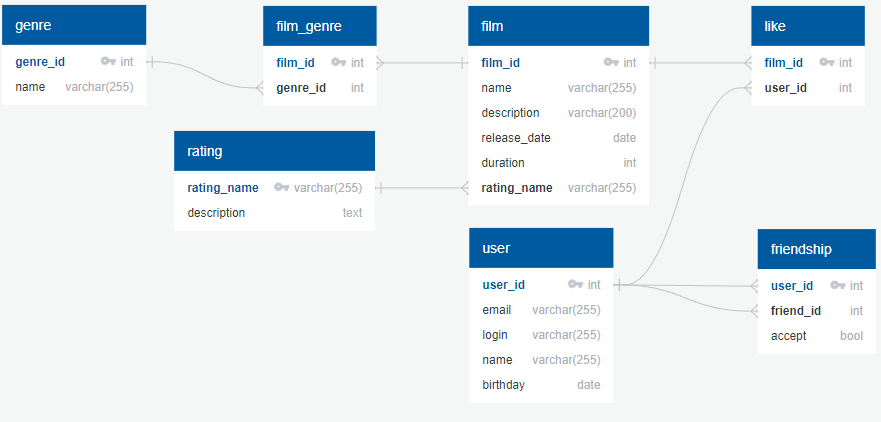
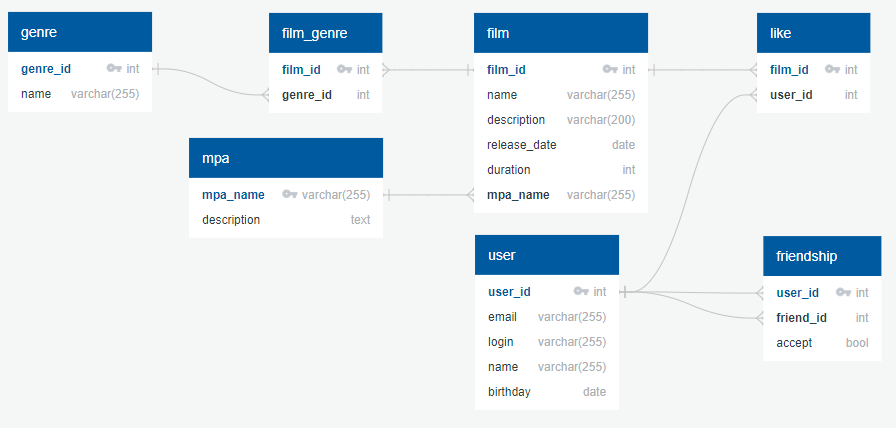
Внес правки в модель (изменил rating на mpa (Motion Picture Association, сокращённо МРА))

diff --git a/README.md b/README.md
@@ -14,9 +14,9 @@ f.name,
 f.description,  
 f.release_date,  
 f.duration,  
-r.rating_name  
+r.mpa_name  
 FROM film AS f  
-INNER JOIN rating AS r ON f.rating_name = r.rating_name;
+INNER JOIN mpa AS r ON f.mpa_name = r.mpa_name;
 
 ###Получение списка всех фильмов и соответствующих жанров
 
